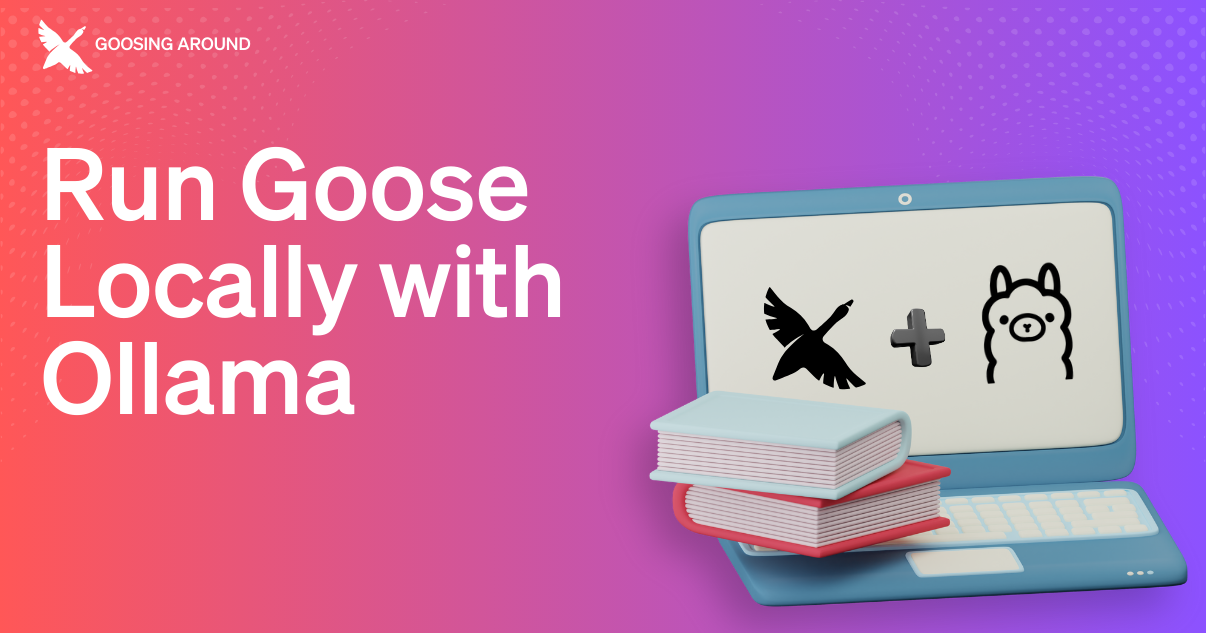
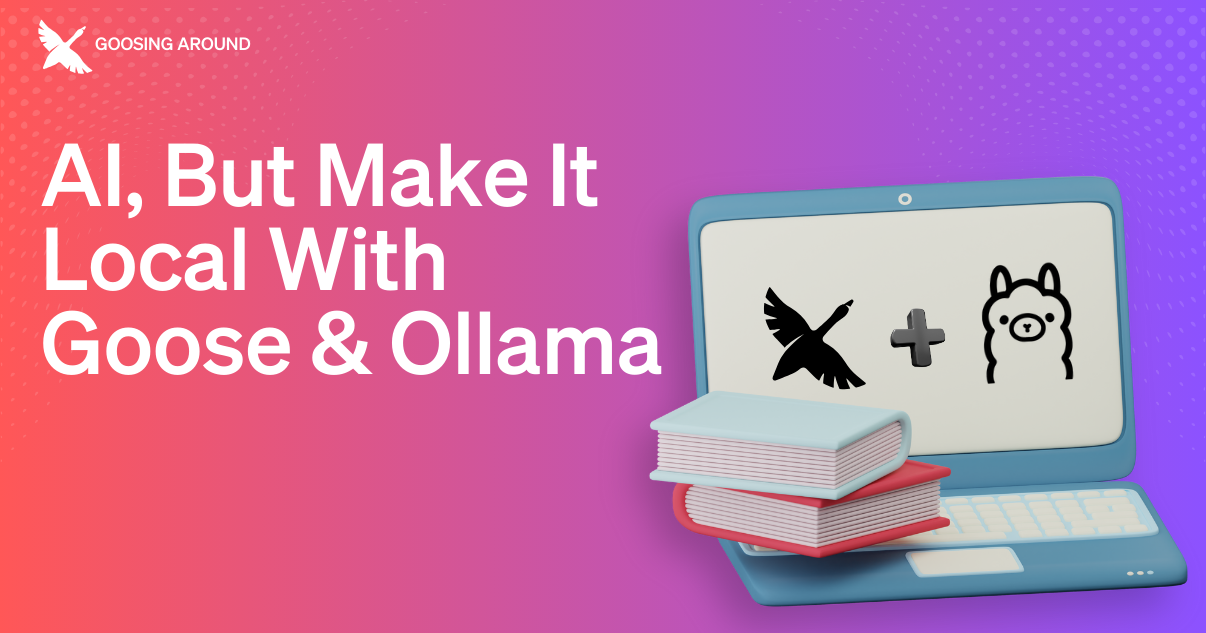
addressed feedback

Changed region(s): [[0.0307, 0.2101, 0.5522, 0.6603]]

diff --git a/documentation/blog/2025-03-13-goose-ollama/index.md b/documentation/blog/2025-03-13-goose-ollama/index.md
@@ -1,11 +1,11 @@
 ---
 title: "AI, But Make It Local With Goose and Ollama"
-description: Integrate Goose with Ollama and learn how they work together under the hood.
+description: Integrate Goose with Ollama for a fully local experience.
 authors: 
     - tania
 ---
 
-![blog cover](gooselocalollama.png)
+![blog cover](gooseollama.png)
 
 On the [Goosing Around](https://youtube.com/playlist?list=PLyMFt_U2IX4uFFhd_2TD9-tlJkgHMMb6F&feature=shared) stream series, host [Rizel Scarlett](https://www.linkedin.com/in/rizel-bobb-semple/) [demonstrated how to use Goose locally with Ollama](https://youtube.com/watch?v=WG10r2N0IwM?feature=share) to interact with LLMs directly on your device. Her guest, [Parth Sareen](https://www.linkedin.com/in/parthsareen/), an experienced software engineer with a focus on building frameworks and systems for AI/ML, showed us the magic of structured outputs and how Goose and Ollama work together under the hood.
 
@@ -36,7 +36,7 @@ This question came up repeatedly, and the answer is more encouraging than you th
 - **For MacBooks, RAM is your primary concern** given the unified memory architecture.
 - **For Windows/Linux, GPU memory is more important** for acceleration
 
-Some use cases can start with smaller, more efficient models that run on modest hardware. Models optimized for efficiency can deliver impressive performance even on standard laptops! Just start with a smaller model to test your workflow, then scale up as you need. This way you can figure out if you need the beefy hardware or not.
+Use cases can start with smaller, more efficient models that run on modest hardware. Models optimized for efficiency can deliver impressive performance even on standard laptops! Just start with a smaller model to test your workflow, then scale up as you need. This way you can figure out if you need the beefy hardware or not.
 
 # The Magic of Structured Outputs
 Ollama supports [structured outputs](https://ollama.com/blog/structured-outputs), making it possible to constrain a model’s output to a specific format—essentially teaching models to respond in specific formats like JSON. Parth explained the concept with an elegant analogy: "It's like teaching someone math operations. You show them how to add, subtract, multiply, and then they can solve different problems following those patterns."
@@ -88,11 +88,11 @@ The benefits of owning your AI experience can be compelling for a variety of use
   <meta property="og:title" content="Goosing Around: AI, But Make It Local With Goose and Ollama" />
   <meta property="og:type" content="article" />
   <meta property="og:url" content="https://block.github.io/goose/blog/2025/03/13/goose-ollama-local" />
-  <meta property="og:description" content="Integrate Goose with Ollama and learn how they work together under the hood." />
-  <meta property="og:image" content="http://block.github.io/goose/assets/images/gooselocalollama-2658db92d8e9d0fa947fb570d08fa7dc.png" />
+  <meta property="og:description" content="Integrate Goose with Ollama for a fully local experience." />
+  <meta property="og:image" content="http://block.github.io/goose/assets/images/gooseollama.png" />
   <meta name="twitter:card" content="summary_large_image" />
   <meta property="twitter:domain" content="block.github.io/goose" />
   <meta name="twitter:title" content="Goosing Around: AI, But Make It Local With Goose and Ollama" />
-  <meta name="twitter:description" content="Integrate Goose with Ollama and learn how they work together under the hood." />
-  <meta name="twitter:image" content="http://block.github.io/goose/assets/images/gooselocalollama-2658db92d8e9d0fa947fb570d08fa7dc.png" />
+  <meta name="twitter:description" content="Integrate Goose with Ollama for a fully local experience." />
+  <meta name="twitter:image" content="http://block.github.io/goose/assets/images/gooseollama.png" />
 </head>
